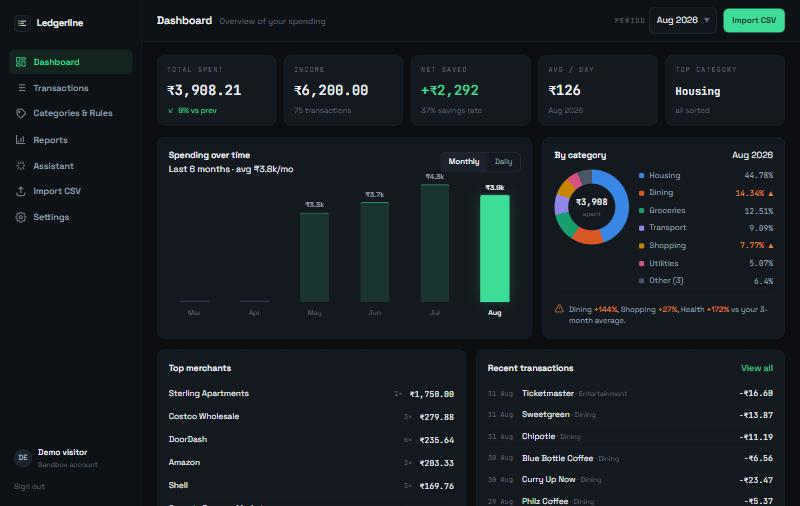
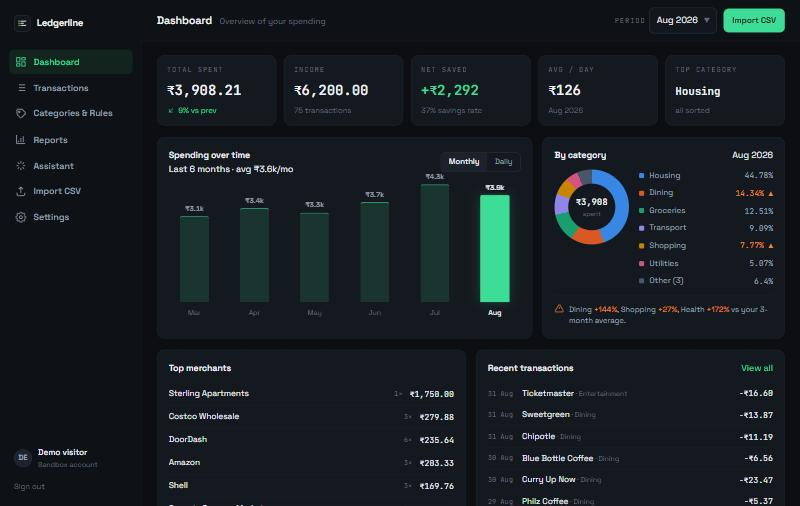
Over a year of sample data; fix the demo button sticking after Back
- Sample data now runs Jul 2025 to Sep 2026 (847 transactions, 15 months, two calendar years, so the
  yearly view has two bars). The ten new months are generated after, and from a separate RNG stream to,
  the original May-Sep 2026 block, so that block's rows and ids are unchanged (the eval's demo
  questions are labelled against them). They add a December holiday spike with travel, a year-end
  bonus, a rent and salary change in January, and higher winter utility bills.
- 'npm run seed -- --legacy' gives only the original 271 rows; eval/FORMAT.md says to use it before
  snapshotting.
- Login page: the 'Setting up your sandbox...' button no longer stays disabled when the page is restored
  by the Back button (bfcache), and a 15s timeout shows an error instead of waiting forever.
- Tests for the longer dataset and the legacy block; README screenshot retaken.

Changed region(s): [[0.2188, 0.3854, 0.3438, 0.5929]]

diff --git a/src/seed.js b/src/seed.js
@@ -1,9 +1,10 @@
 'use strict';
 
 /*
- * Creates a demo account with a few months of realistic transactions.
- *   npm run seed     -> wipe the demo user's data and regenerate
- *   npm run reset    -> wipe ALL data, then regenerate the demo user
+ * Creates a demo account with over a year of realistic transactions (Jul 2025 to Sep 2026).
+ *   npm run seed                -> wipe the demo user's data and regenerate
+ *   npm run reset               -> wipe ALL data, then regenerate the demo user
+ *   npm run seed -- --legacy    -> only the original May-Sep 2026 block (what the eval was labelled on)
  *
  * Deterministic: a fixed RNG seed means the same data every run.
  */
@@ -14,6 +15,7 @@ const { db } = require('./db');
 const { learn } = require('./categorize');
 
 const RESET = process.argv.includes('--reset');
+const LEGACY = process.argv.includes('--legacy'); // only the original May-Sep 2026 block (matches the eval's demo questions)
 const DEMO_EMAIL = 'demo@example.com';
 const DEMO_PASSWORD = 'demo1234';
 const MONTHLY_INCOME = 6200;
@@ -57,10 +59,77 @@ const M = {
   Education: ['Udemy'],
 };
 
-// Fill a user with the demo dataset: ~270 transactions, a few rules and a warmed-up classifier.
+/* ---- the year before: Jul 2025 .. Apr 2026 ----
+ * Generated AFTER the May-Sep 2026 block, from its own RNG stream, so that block's rows (and their
+ * ids) are exactly what they were before this existed: the eval's demo-account questions are
+ * labelled against them. `npm run seed -- --legacy` reproduces that original dataset. */
+const HISTORY_START = '2025-07-01';
+const HISTORY_END = '2026-04-30';
+
+function addHistory(add) {
+  _s = 0x1b873593;
+  let count = 0;
+  const put = (...a) => { add(...a); count++; };
+  eachDay(HISTORY_START, HISTORY_END, (d) => {
+    const day = d.getUTCDate();
+    const month = d.getUTCMonth(); // 0-11
+    const year = d.getUTCFullYear();
+    const dow = d.getUTCDay();
+    const date = iso(d);
+    const december = month === 11; // gifts, parties, travel
+    const winter = month === 11 || month === 0 || month === 1; // heating bills
+    const raised = year === 2026; // new lease and a raise from January
+
+    // --- income and fixed costs ---
+    if (day === 1 || day === 15) put(date, (raised ? 6200 : 5900) / 2, 'income', 'Income', 'Payroll — Northwind Labs');
+    if (december && day === 20) put(date, 1500, 'income', 'Income', 'Year-end bonus — Northwind Labs');
+    if (day === 1) put(date, raised ? 1750 : 1700, 'expense', 'Housing', 'Sterling Apartments');
+    if (day === 8) put(date, winter ? money(128, 171) : money(96, 124), 'expense', 'Utilities', 'PG&E');
+    if (day === 12) put(date, raised ? 79.99 : 69.99, 'expense', 'Utilities', 'Comcast Xfinity');
+    if (day === 2) put(date, 24.99, 'expense', 'Subscriptions', 'Planet Fitness');
+    if (day === 3) put(date, raised ? 15.49 : 13.99, 'expense', 'Subscriptions', 'Netflix');
+    if (day === 5) put(date, 2.99, 'expense', 'Subscriptions', 'iCloud');
+    if (day === 7) put(date, 11.99, 'expense', 'Subscriptions', 'Spotify');
+    if (day === 9) put(date, 14.95, 'expense', 'Subscriptions', 'Audible');
+
+    // --- groceries ~2x / week, dining ~3x / week (more in December) ---
+    if (chance(2 / 7)) put(date, chance(0.15) ? money(120, 190) : money(32, 96), 'expense', 'Groceries', pick(M.Groceries));
+    for (let i = 0; i < (december ? 2 : 1); i++) {
+      if (chance(december ? 0.4 : 3 / 7)) {
+        const merchant = pick(M.Dining);
+        const amt = merchant === 'DoorDash' ? money(26, 58) : /coffee/i.test(merchant) ? money(4.5, 9.5) : money(11, 27);
+        put(date, amt, 'expense', 'Dining', merchant);
+      }
+    }
+
+    // --- transport ---
+    if (dow >= 1 && dow <= 5 && chance(0.55)) put(date, money(2.5, 8.25), 'expense', 'Transport', 'BART');
+    if (chance(1 / 12)) put(date, money(42, 66), 'expense', 'Transport', chance(0.5) ? 'Shell' : 'Chevron');
+    if (chance(1 / 14)) put(date, money(12, 29), 'expense', 'Transport', 'Lyft');
+
+    // --- shopping: ~weekly, heavier in the holiday season ---
+    if (chance(december ? 0.35 : 1 / 7)) put(date, december ? money(25, 140) : money(14, 78), 'expense', 'Shopping', pick(M.Shopping));
+    if (month === 10 && day === 28) { put(date, 94.5, 'expense', 'Shopping', 'Amazon'); put(date, 128.2, 'expense', 'Shopping', 'Amazon'); put(date, 214, 'expense', 'Shopping', 'Best Buy'); } // Black Friday
+
+    // --- occasional ---
+    if (chance(1 / 16)) put(date, money(12, 44), 'expense', 'Health', pick(M.Health));
+    if (day === 15 && month === 0) put(date, 40, 'expense', 'Health', 'Kaiser Permanente');
+    if (chance(1 / 18)) put(date, money(14, 34), 'expense', 'Entertainment', pick(M.Entertainment));
+    if (december && day === 14) put(date, 86, 'expense', 'Entertainment', 'Ticketmaster');
+    if (december && day === 21) put(date, 412, 'expense', 'Travel', 'Alaska Airlines');
+    if (december && day === 22) put(date, 248, 'expense', 'Travel', 'Marriott Hotels');
+    if (december && day === 28) put(date, 389, 'expense', 'Travel', 'Alaska Airlines');
+    if (month === 2 && day === 10) put(date, 29.99, 'expense', 'Education', 'Udemy');
+    if (month === 8 && day === 18) put(date, 12.99, 'expense', 'Education', 'Udemy');
+  });
+  return count;
+}
+
+// Fill a user with the demo dataset: Jul 2025 to Sep 2026 (~900 transactions), a few rules and a
+// warmed-up classifier. { legacy: true } gives only the original May-Sep 2026 block (~270).
 // The RNG is re-seeded on every call, so each user gets identical data. The caller owns the
 // user row (and any surrounding transaction).
-function seedUserData(uid) {
+function seedUserData(uid, { legacy = false } = {}) {
   _s = 0x9e3779b9;
   const insert = db.prepare(
     `INSERT INTO transactions (user_id, date, amount, type, category, merchant, note, source)
@@ -143,6 +212,8 @@ function seedUserData(uid) {
     if (month === 5 && day === 22) { add(date, 12.99, 'expense', 'Education', 'Udemy'); count++; }
   });
 
+  if (!legacy) count += addHistory(add);
+
   // --- a few user rules so the Rules screen isn't empty ---
   const addRule = db.prepare('INSERT INTO rules (user_id, match_text, category) VALUES (?, ?, ?)');
   [
@@ -186,9 +257,9 @@ function run() {
       .run(DEMO_EMAIL, hash, 'Demo User');
     user = { id: Number(info.lastInsertRowid) };
   }
-  const r = seedUserData(user.id);
+  const r = seedUserData(user.id, { legacy: LEGACY });
   console.log(`seeded: demo user ${DEMO_EMAIL} / ${DEMO_PASSWORD}`);
-  console.log(`        ${r.count} transactions from ${START} to ${END}`);
+  console.log(`        ${r.count} transactions from ${LEGACY ? START : HISTORY_START} to ${END}${LEGACY ? ' (legacy range)' : ''}`);
   console.log(`        ${r.rules} rules, Naive Bayes warmed with ${r.examples} examples`);
 }
 

diff --git a/test/demo.test.js b/test/demo.test.js
@@ -33,6 +33,29 @@ test('a sandbox gets the full sample dataset and leaves other users untouched', 
   clean();
 });
 
+test('the sample data spans more than a year, and the original May-Sep 2026 block is unchanged', () => {
+  clean();
+  const u = demo.createDemoUser();
+  const q = (sql) => db.prepare(sql).get(u.id);
+  assert.ok(q("SELECT COUNT(DISTINCT substr(date,1,7)) AS c FROM transactions WHERE user_id = ?").c >= 13);
+  assert.equal(q("SELECT COUNT(DISTINCT substr(date,1,4)) AS c FROM transactions WHERE user_id = ?").c, 2);
+  assert.ok(q("SELECT COUNT(*) AS c FROM transactions WHERE user_id = ?").c > 700);
+  // the earlier block is generated separately, so the original months keep their exact numbers
+  assert.equal(q("SELECT ROUND(SUM(amount),2) AS c FROM transactions WHERE user_id = ? AND type='expense' AND date >= '2026-05-01'").c, 17275.86);
+  assert.equal(q("SELECT ROUND(SUM(amount),2) AS c FROM transactions WHERE user_id = ? AND type='expense' AND substr(date,1,7) = '2026-08'").c, 3908.21);
+  clean();
+});
+
+test('seedUserData({ legacy: true }) gives only the original 271 rows', () => {
+  clean();
+  const id = Number(db.prepare("INSERT INTO users (email, password_hash, name) VALUES (?, '!x', 'Legacy')").run(`demo-legacy01@${demo.DOMAIN}`).lastInsertRowid);
+  const r = require('../src/seed').seedUserData(id, { legacy: true });
+  assert.equal(r.count, 271);
+  assert.equal(db.prepare('SELECT COUNT(*) AS c FROM transactions WHERE user_id = ?').get(id).c, 271);
+  assert.equal(db.prepare("SELECT MIN(date) AS d FROM transactions WHERE user_id = ?").get(id).d, '2026-05-01');
+  clean();
+});
+
 test('every visitor gets their own account with identical data', () => {
   clean();
   const a = demo.createDemoUser();

diff --git a/public/assets/auth.js b/public/assets/auth.js
@@ -29,20 +29,32 @@ function authForm(endpoint) {
   const demo = document.getElementById('demo');
   if (!box || !demo || !window.__DEMO__) return;
   box.hidden = false;
+  const label = demo.textContent;
+  const reset = () => { demo.disabled = false; demo.textContent = label; };
   demo.addEventListener('click', async () => {
     const err = document.getElementById('err');
     err.textContent = '';
     demo.disabled = true;
     demo.textContent = 'Setting up your sandbox…';
+    const abort = new AbortController();
+    const timer = setTimeout(() => abort.abort(), 15000); // never sit on "Setting up…" forever
     try {
-      const res = await fetch('/api/demo', { method: 'POST' });
+      const res = await fetch('/api/demo', { method: 'POST', signal: abort.signal });
       const data = await res.json().catch(() => ({}));
       if (!res.ok) throw new Error(data.error || 'Could not start the demo.');
       location.href = '/';
     } catch (ex) {
-      err.textContent = ex.message;
-      demo.disabled = false;
-      demo.textContent = 'Explore with sample data';
+      err.textContent = ex.name === 'AbortError' ? 'The demo is taking too long. Please try again.' : ex.message;
+      reset();
+    } finally {
+      clearTimeout(timer);
     }
+  });
+  // Coming back with the Back button restores this page from the browser's cache exactly as it was
+  // left, including a disabled "Setting up…" button. Put the buttons back.
+  window.addEventListener('pageshow', (e) => {
+    if (!e.persisted) return;
+    reset();
+    document.querySelectorAll('button[type=submit]').forEach((b) => { b.disabled = false; });
   });
 })();

diff --git a/public/signup.html b/public/signup.html
@@ -43,7 +43,7 @@
     </div>
   </div>
   <script src="/assets/config.js"></script>
-  <script src="/assets/auth.js?v=6"></script>
+  <script src="/assets/auth.js?v=7"></script>
   <script>authForm('/api/signup');</script>
 </body>
 </html>

diff --git a/public/login.html b/public/login.html
@@ -42,7 +42,7 @@
     </div>
   </div>
   <script src="/assets/config.js"></script>
-  <script src="/assets/auth.js?v=6"></script>
+  <script src="/assets/auth.js?v=7"></script>
   <script>authForm('/api/login');</script>
 </body>
 </html>

diff --git a/README.md b/README.md
@@ -50,7 +50,7 @@ Needs **Node.js 22.5+** (uses the built-in `node:sqlite`; the npm scripts pass t
 ```bash
 npm install
 cp .env.example .env      # optional: every setting has a default
-npm run seed              # a demo account with ~270 transactions (May to Sep 2026)
+npm run seed              # a demo account with ~850 transactions (Jul 2025 to Sep 2026)
 npm start                 # http://localhost:3000
 ```
 
@@ -62,6 +62,7 @@ Sign in with **demo@example.com** / **demo1234**, or create an account to start 
 | `npm run dev` | run with `--watch` |
 | `npm run seed` | regenerate the demo user's data |
 | `npm run reset` | wipe **all** data, then regenerate the demo user |
+| `npm run seed -- --legacy` | only the original May to Sep 2026 block (~270 rows), the data the eval's demo questions were labelled on |
 | `npm test` | 54 unit tests (retrieval, assistant routing, demo sandbox, eval scoring) |
 
 Sample files for the importer are in `public/assets/`:

diff --git a/eval/FORMAT.md b/eval/FORMAT.md
@@ -14,6 +14,10 @@ Add `--final` to also require exactly 50 questions, a 35/15 tune/test split, and
 
 ## Building and labelling
 
+The demo-account questions are labelled against the original seed (May to Sep 2026, 271 rows). The default
+`npm run seed` now adds Jul 2025 to Apr 2026 as well, so seed with `npm run seed -- --legacy` before snapshotting.
+The original rows and ids are identical either way; the longer dataset only adds more rows.
+
 ```bash
 node --experimental-sqlite eval/make-snapshot.js --embed     # copy of the live DB (read-only), embedded; git-ignored
 node --experimental-sqlite eval/build-questions.js           # questions.json + labeling-pools.json + labeling-worksheet.md

diff --git a/CLAUDE.md b/CLAUDE.md
@@ -10,7 +10,7 @@ Needs Node >= 22.5 (uses `node:sqlite`, which requires the `--experimental-sqlit
 npm install
 npm start          # http://localhost:3000
 npm run dev        # same, with --watch
-npm run seed       # demo data: demo@example.com / demo1234 (~271 txns, May–Sep 2026)
+npm run seed       # demo data: demo@example.com / demo1234 (~850 txns, Jul 2025–Sep 2026; `-- --legacy` = the original 271 rows the eval is labelled on)
 npm run reset      # wipe + reseed
 ```
 
